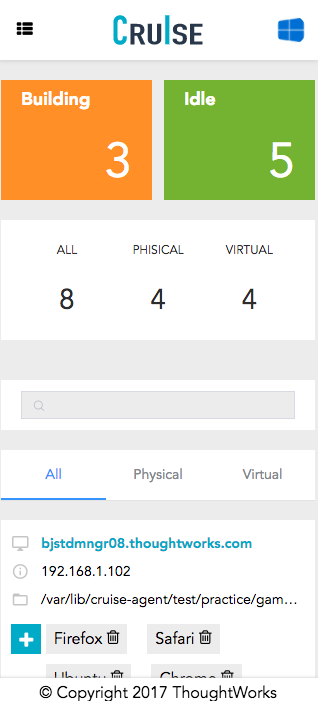
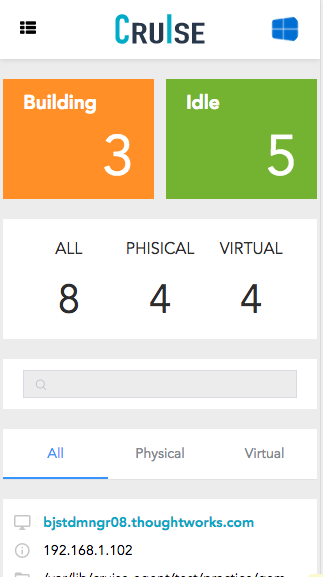
test with chrome, IE10+

diff --git a/src/components/agent-detail/toolbar.vue b/src/components/agent-detail/toolbar.vue
@@ -60,6 +60,12 @@ export default {
 
     &__tab-item {
       width: 1 / 3 * 100%;
+      height: $toolbar-height !important;
+      line-height: $toolbar-height !important;
+    }
+    &__tab-item.is-active {
+      color: $light-blue !important;
+      border-bottom-color: $light-blue !important;
     }
 
     &__view-type {
@@ -71,10 +77,6 @@ export default {
 
 <style lang="scss">
 	.toolbar {
-	  .el-menu-item {
-	    height: 50px;
-	    line-height: 50px;
-	  }
 
 	  .el-menu-item.is-active {
 	    color: #409EFF;

diff --git a/README.md b/README.md
@@ -5,6 +5,7 @@ A responsive dashboard for CI(Continuous Integration). It could be browsed on PC
 #### Done
 - responsive view(on pc HD, pc, tablet and smartphone)
 - sass refactor
+- test under chrome and IE10+
 
 #### Todo
 - browser compatibility(IE10+, chome, firefox, safari and other major browsers)
